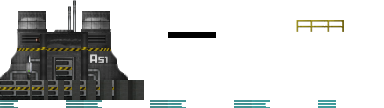
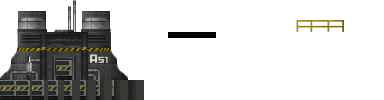
* Fusionsreaktor: Glüheffekt eingefügt. * Fusionsreaktor: Grafik aktualisiert.

diff --git a/CMC_LangleyFields.c4s/Structures.c4d/FusionReactor.c4d/Script.c b/CMC_LangleyFields.c4s/Structures.c4d/FusionReactor.c4d/Script.c
@@ -28,6 +28,8 @@ protected func Construction()
 protected func Initialize()
 {
   //Effekte
+  var deco = CreateObject(CGLW,0,8,GetOwner());
+  AddObject(deco);
   AddEffect("SmokeEffects", this, 100, 26, this);
   Sound("CFRT_PowerOn.ogg");
   Sound("CFRT_Fuse.ogg",false,0,75,0,+1);
